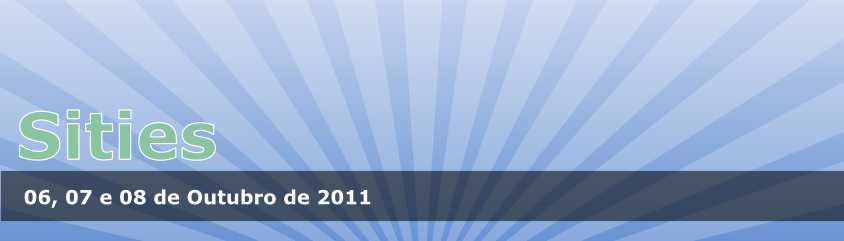
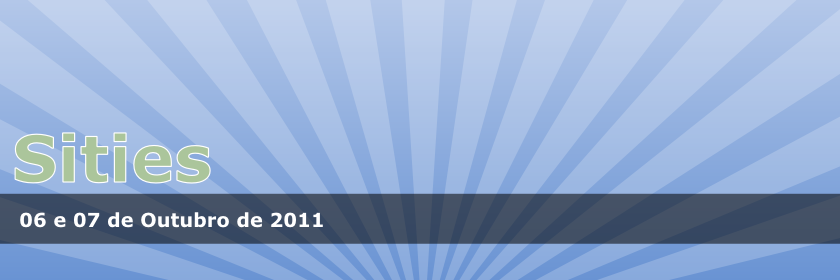
cores e cabecalho

diff --git a/style.css b/style.css
@@ -11,13 +11,13 @@ Version:        0.4.0
 @import url("../twentyeleven/style.css");
 
 body {
-    background: #b6ddc8;
+    background: #e0edd5;
     overflow-x: hidden;
 }
 
 #page {
     margin: 0 auto;
-    background: #d8ece0;
+    background: #ebf8e2;
 }
 
 #branding {
@@ -25,7 +25,7 @@ body {
 }
 
 #site-generator {
-    background: #d1e4d9;
+    background: #dde6d6;
 }
 
 #site-title {
@@ -34,12 +34,21 @@ body {
     height: 50px;
 }
 
+#ifpr-logo img {
+    width: 60px !important;
+    height: 85px !important;
+    position: absolute;
+    right: 80px;
+    top: 10px;
+}
+
 #site-title span { display: none; }
 
 #site-description { display: none; }
 
 #branding #searchform {
-    top: 2.3em;
+    top: 2.5em;
+    right: 11em; 
 }
 
 input#s {
@@ -93,8 +102,8 @@ input#s {
 .coluna { width: 50%; float: left; }
 #colunas { clear: both; }
 
-.item-coluna { display: block; color: #367352; }
-.item-coluna:hover { text-decoration: none; color: #63b689; }
+.item-coluna { display: block; color: #515e48; }
+.item-coluna:hover { text-decoration: none; color: #748667; }
 
 .item-coluna h2 {
     font-weight: bold;
@@ -146,24 +155,24 @@ input#s {
  * Palestras
  */
 .entry-content th {
-    background: #b5d7c2;
-    border: 1px solid #8ec1a3;
+    background: #dbe6d4;
+    border: 1px solid #d0dec6;
     font-size: 0.9em;
     padding: 10px;
     line-height: 1.6em;
     text-align: center;
     font-weight: bold;
-    color: #3c6d50;
+    color: #515e48;
 }
 
 .entry-content td {
     border-top: 0;
     padding: 10px;
     font-size: 0.8em;
-    background: #cde4d6;
-    border: 1px solid #aed3bc;
+    background: #e1eadb;
+    border: 1px solid #d4e1cb;
     vertical-align: middle;
-    color: #3c6d50;
+    color: #515e48;
 }
 
 .entry-content p {

diff --git a/header.php b/header.php
@@ -1,0 +1,125 @@
+<?php
+/**
+ * The Header for our theme.
+ *
+ * Displays all of the <head> section and everything up till <div id="main">
+ *
+ * @package WordPress
+ * @subpackage Twenty_Eleven
+ * @since Twenty Eleven 1.0
+ */
+?><!DOCTYPE html>
+<!--[if IE 6]>
+<html id="ie6" <?php language_attributes(); ?>>
+<![endif]-->
+<!--[if IE 7]>
+<html id="ie7" <?php language_attributes(); ?>>
+<![endif]-->
+<!--[if IE 8]>
+<html id="ie8" <?php language_attributes(); ?>>
+<![endif]-->
+<!--[if !(IE 6) | !(IE 7) | !(IE 8)  ]><!-->
+<html <?php language_attributes(); ?>>
+<!--<![endif]-->
+<head>
+<meta charset="<?php bloginfo( 'charset' ); ?>" />
+<meta name="viewport" content="width=device-width" />
+<title><?php
+	/*
+	 * Print the <title> tag based on what is being viewed.
+	 */
+	global $page, $paged;
+
+	wp_title( '|', true, 'right' );
+
+	// Add the blog name.
+	bloginfo( 'name' );
+
+	// Add the blog description for the home/front page.
+	$site_description = get_bloginfo( 'description', 'display' );
+	if ( $site_description && ( is_home() || is_front_page() ) )
+		echo " | $site_description";
+
+	// Add a page number if necessary:
+	if ( $paged >= 2 || $page >= 2 )
+		echo ' | ' . sprintf( __( 'Page %s', 'twentyeleven' ), max( $paged, $page ) );
+
+	?></title>
+<link rel="profile" href="http://gmpg.org/xfn/11" />
+<link rel="stylesheet" type="text/css" media="all" href="<?php bloginfo( 'stylesheet_url' ); ?>" />
+<link rel="pingback" href="<?php bloginfo( 'pingback_url' ); ?>" />
+<!--[if lt IE 9]>
+<script src="<?php echo get_template_directory_uri(); ?>/js/html5.js" type="text/javascript"></script>
+<![endif]-->
+<?php
+	/* We add some JavaScript to pages with the comment form
+	 * to support sites with threaded comments (when in use).
+	 */
+	if ( is_singular() && get_option( 'thread_comments' ) )
+		wp_enqueue_script( 'comment-reply' );
+
+	/* Always have wp_head() just before the closing </head>
+	 * tag of your theme, or you will break many plugins, which
+	 * generally use this hook to add elements to <head> such
+	 * as styles, scripts, and meta tags.
+	 */
+	wp_head();
+?>
+</head>
+
+<body <?php body_class(); ?>>
+<div id="page" class="hfeed">
+	<header id="branding" role="banner">
+			<hgroup>
+				<h1 id="site-title"><span><a href="<?php echo esc_url( home_url( '/' ) ); ?>" title="<?php echo esc_attr( get_bloginfo( 'name', 'display' ) ); ?>" rel="home"><?php bloginfo( 'name' ); ?></a></span></h1>
+				<h2 id="site-description"><?php bloginfo( 'description' ); ?></h2>
+			</hgroup>
+
+			<?php
+				// Check to see if the header image has been removed
+				$header_image = get_header_image();
+				if ( ! empty( $header_image ) ) :
+			?>
+			<a href="<?php echo esc_url( home_url( '/' ) ); ?>">
+				<?php
+					// The header image
+					// Check if this is a post or page, if it has a thumbnail, and if it's a big one
+					if ( is_singular() &&
+							has_post_thumbnail( $post->ID ) &&
+							( /* $src, $width, $height */ $image = wp_get_attachment_image_src( get_post_thumbnail_id( $post->ID ), array( HEADER_IMAGE_WIDTH, HEADER_IMAGE_WIDTH ) ) ) &&
+							$image[1] >= HEADER_IMAGE_WIDTH ) :
+						// Houston, we have a new header image!
+						echo get_the_post_thumbnail( $post->ID, 'post-thumbnail' );
+					else : ?>
+					<img src="<?php header_image(); ?>" width="<?php echo HEADER_IMAGE_WIDTH; ?>" height="<?php echo HEADER_IMAGE_HEIGHT; ?>" alt="" />
+				<?php endif; // end check for featured image or standard header ?>
+			</a>
+			<?php endif; // end check for removed header image ?>
+            
+            <a id="ifpr-logo" href="http://umuarama.ifpr.edu.br"><img src="<?php bloginfo('stylesheet_directory'); ?>/images/ifpr.png" /></a>
+            
+			<?php
+				// Has the text been hidden?
+				if ( 'blank' == get_header_textcolor() ) :
+			?>
+				<div class="only-search<?php if ( ! empty( $header_image ) ) : ?> with-image<?php endif; ?>">
+				<?php get_search_form(); ?>
+				</div>
+			<?php
+				else :
+			?>
+				<?php get_search_form(); ?>
+			<?php endif; ?>
+            
+			<nav id="access" role="navigation">
+				<h3 class="assistive-text"><?php _e( 'Main menu', 'twentyeleven' ); ?></h3>
+				<?php /*  Allow screen readers / text browsers to skip the navigation menu and get right to the good stuff. */ ?>
+				<div class="skip-link"><a class="assistive-text" href="#content" title="<?php esc_attr_e( 'Skip to primary content', 'twentyeleven' ); ?>"><?php _e( 'Skip to primary content', 'twentyeleven' ); ?></a></div>
+				<div class="skip-link"><a class="assistive-text" href="#secondary" title="<?php esc_attr_e( 'Skip to secondary content', 'twentyeleven' ); ?>"><?php _e( 'Skip to secondary content', 'twentyeleven' ); ?></a></div>
+				<?php /* Our navigation menu.  If one isn't filled out, wp_nav_menu falls back to wp_page_menu. The menu assiged to the primary position is the one used. If none is assigned, the menu with the lowest ID is used. */ ?>
+				<?php wp_nav_menu( array( 'theme_location' => 'primary' ) ); ?>
+			</nav><!-- #access -->
+	</header><!-- #branding -->
+
+
+	<div id="main">
